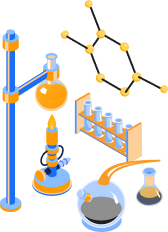
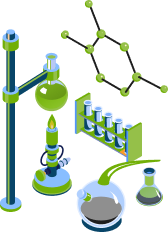
Updated

diff --git a/index.html b/index.html
@@ -142,7 +142,7 @@
                                     Physics
                                 </span>
 
-                                <div class="arrow" style="color:#8CC72D;
+                                <div class="arrow" style="color:#71AF06;
                                         font-size:25px;">
                                     <i class="bi bi-arrow-right"></i>
                                 </div>
@@ -171,7 +171,7 @@
                                         bold;">
                                     Biology
                                 </span>
-                                <div class="arrow" style="color:#F99B27;
+                                <div class="arrow" style="color:#71AF06;
                                         font-size:25px;">
                                     <i class="bi bi-arrow-right"></i>
                                 </div>
@@ -202,7 +202,7 @@
                                         bold;">
                                     Chemistry
                                 </span>
-                                <div class="arrow" style="color:#F99B27;
+                                <div class="arrow" style="color:#71AF06;
                                         font-size:25px;">
                                     <i class="bi bi-arrow-right"></i>
                                 </div>

diff --git a/Resources/loadBio.js b/Resources/loadBio.js
@@ -82,7 +82,7 @@ function load() {
         HtmlText += `
         <div class="col-xl-3 col-lg-3 col-md-4 col-sm-6 mb-4  mx-auto"
                         style="">
-                        <div class="card" style="border:1px solid #F99B27; z-index:111;">
+                        <div class="card" style="border:1px solid #71AF06; z-index:111;">
 
                             <img src="../pictures/bio/${i + 1}.png"
                                 class="card-img-top"
@@ -100,8 +100,7 @@ function load() {
                                     style="width:100%;">
                                     <span style="width:fit-content;
                                         padding:1px 8px;
-                                        background: linear-gradient(135deg,
-                                        #F99B27 0%, #F99B20 100%);
+                                        background: #71AF06;
                                         color:white; border-radius: 8px;
                                         font-weight: bold; position: absolute;
                                         bottom:0px; right:0px;">

diff --git a/Resources/loadBio2.js b/Resources/loadBio2.js
@@ -82,7 +82,7 @@ function load() {
         HtmlText += `
         <div class="col-xl-3 col-lg-3 col-md-4 col-sm-6 mb-4  mx-auto"
                         style="">
-                        <div class="card" style="border:1px solid #F99B27; z-index:111;">
+                        <div class="card" style="border:1px solid #71AF06; z-index:111;">
 
                             <img src="../pictures/bio/${i + 1}.png"
                                 class="card-img-top"
@@ -100,8 +100,7 @@ function load() {
                                     style="width:100%;">
                                     <span style="width:fit-content;
                                         padding:1px 8px;
-                                        background: linear-gradient(135deg,
-                                        #F99B27 0%, #F99B20 100%);
+                                        background: #71AF06;
                                         color:white; border-radius: 8px;
                                         font-weight: bold; position: absolute;
                                         bottom:0px; right:0px;">

diff --git a/Resources/loadphysics.js b/Resources/loadphysics.js
@@ -82,7 +82,7 @@ function load() {
         HtmlText += `
         <div class="col-xl-3 col-lg-3 col-md-4 col-sm-6 mb-4  mx-auto"
                         style="">
-                        <div class="card" style="border:1px solid #F99B27; z-index:111;">
+                        <div class="card" style="border:1px solid #71AF06; z-index:111;">
 
                             <img src="../pictures/physics/${i + 1}.png"
                                 class="card-img-top"
@@ -101,7 +101,7 @@ function load() {
                                     <span style="width:fit-content;
                                         padding:1px 8px;
                                         background: linear-gradient(135deg,
-                                        #F99B27 0%, #F99B20 100%);
+                                        #71AF06 0%, #F99B20 100%);
                                         color:white; border-radius: 8px;
                                         font-weight: bold; position: absolute;
                                         bottom:0px; right:0px;">

diff --git a/Resources/loadphysics2.js b/Resources/loadphysics2.js
@@ -82,7 +82,7 @@ function load() {
         HtmlText += `
         <div class="col-xl-3 col-lg-3 col-md-4 col-sm-6 mb-4  mx-auto"
                         style="">
-                        <div class="card" style="border:1px solid #F99B27; z-index:111;">
+                        <div class="card" style="border:1px solid #71AF06; z-index:111;">
 
                             <img src="../pictures/physics/${i + 1}.png"
                                 class="card-img-top"
@@ -101,7 +101,7 @@ function load() {
                                     <span style="width:fit-content;
                                         padding:1px 8px;
                                         background: linear-gradient(135deg,
-                                        #F99B27 0%, #F99B20 100%);
+                                        #71AF06 0%, #F99B20 100%);
                                         color:white; border-radius: 8px;
                                         font-weight: bold; position: absolute;
                                         bottom:0px; right:0px;">

diff --git a/Resources/loadchm.js b/Resources/loadchm.js
@@ -82,7 +82,7 @@ function load() {
         HtmlText += `
         <div class="col-xl-3 col-lg-3 col-md-4 col-sm-6 mb-4  mx-auto"
                         style="">
-                        <div class="card" style="border:1px solid #F99B27; z-index:111;">
+                        <div class="card" style="border:1px solid #71AF06; z-index:111;">
 
                             <img src="../pictures/chem/${i + 1}.png"
                                 class="card-img-top"
@@ -101,7 +101,7 @@ function load() {
                                     <span style="width:fit-content;
                                         padding:1px 8px;
                                         background: linear-gradient(135deg,
-                                        #F99B27 0%, #F99B20 100%);
+                                        #71AF06 0%, #F99B20 100%);
                                         color:white; border-radius: 8px;
                                         font-weight: bold; position: absolute;
                                         bottom:0px; right:0px;">

diff --git a/Resources/loadchm2.js b/Resources/loadchm2.js
@@ -82,7 +82,7 @@ function load() {
         HtmlText += `
         <div class="col-xl-3 col-lg-3 col-md-4 col-sm-6 mb-4  mx-auto"
                         style="">
-                        <div class="card" style="border:1px solid #F99B27; z-index:111;">
+                        <div class="card" style="border:1px solid #71AF06; z-index:111;">
 
                             <img src="../pictures/chem/${i + 1}.png"
                                 class="card-img-top"
@@ -101,7 +101,7 @@ function load() {
                                     <span style="width:fit-content;
                                         padding:1px 8px;
                                         background: linear-gradient(135deg,
-                                        #F99B27 0%, #F99B20 100%);
+                                        #71AF06 0%, #F99B20 100%);
                                         color:white; border-radius: 8px;
                                         font-weight: bold; position: absolute;
                                         bottom:0px; right:0px;">

diff --git a/Resources/physics.html b/Resources/physics.html
@@ -105,7 +105,7 @@
 
                         Class 9th, 10th , 11th and 12th
                     </h5>
-                    <h2 class="fs-1 " style="color:#F9B227;">
+                    <h2 class="fs-1 " style="color:#71AF06;">
                         Physics
                     </h2>
                 </selection>

diff --git a/Resources/biology.html b/Resources/biology.html
@@ -97,7 +97,7 @@
 
                         Class 9th, 10th , 11th and 12th
                     </h5>
-                    <h2 class="fs-1" style="color: #F9B227;">
+                    <h2 class="fs-1" style="color: #71AF06;">
                         Biology
                     </h2>
                 </selection>

diff --git a/Resources/chemistry.html b/Resources/chemistry.html
@@ -99,7 +99,7 @@
 
                         Class 9th, 10th , 11th and 12th
                     </h5>
-                    <h2 class="fs-1" style="color:#F9B227;">
+                    <h2 class="fs-1" style="color:#71AF06;">
                         Chemistry
                     </h2>
                 </selection>
